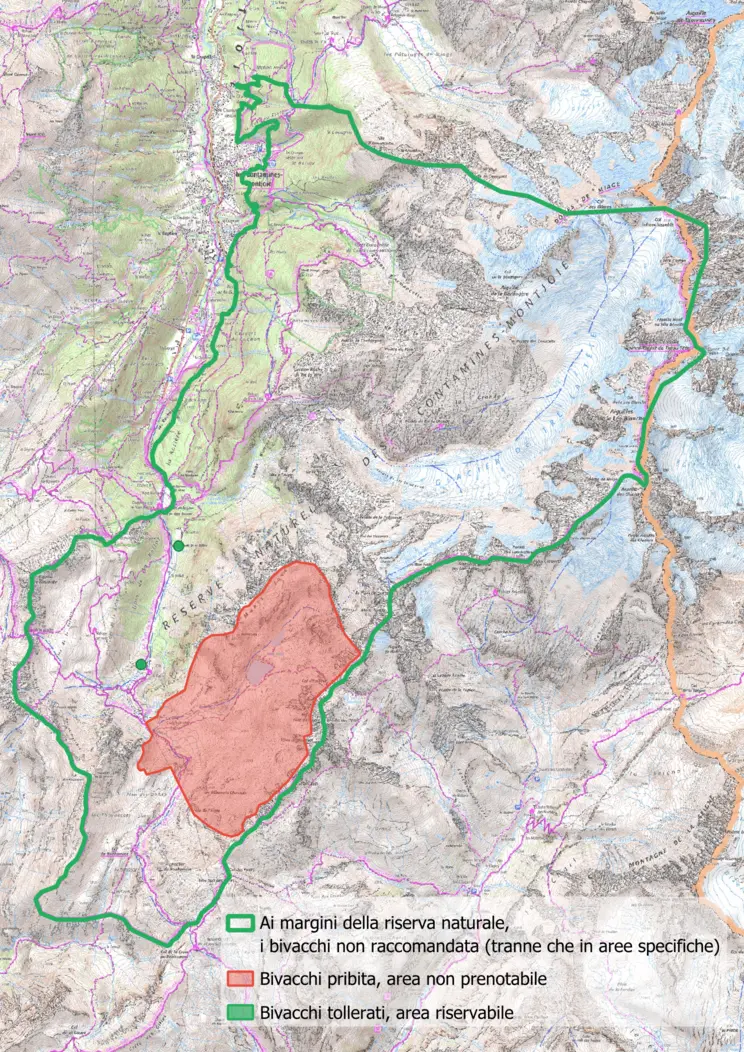
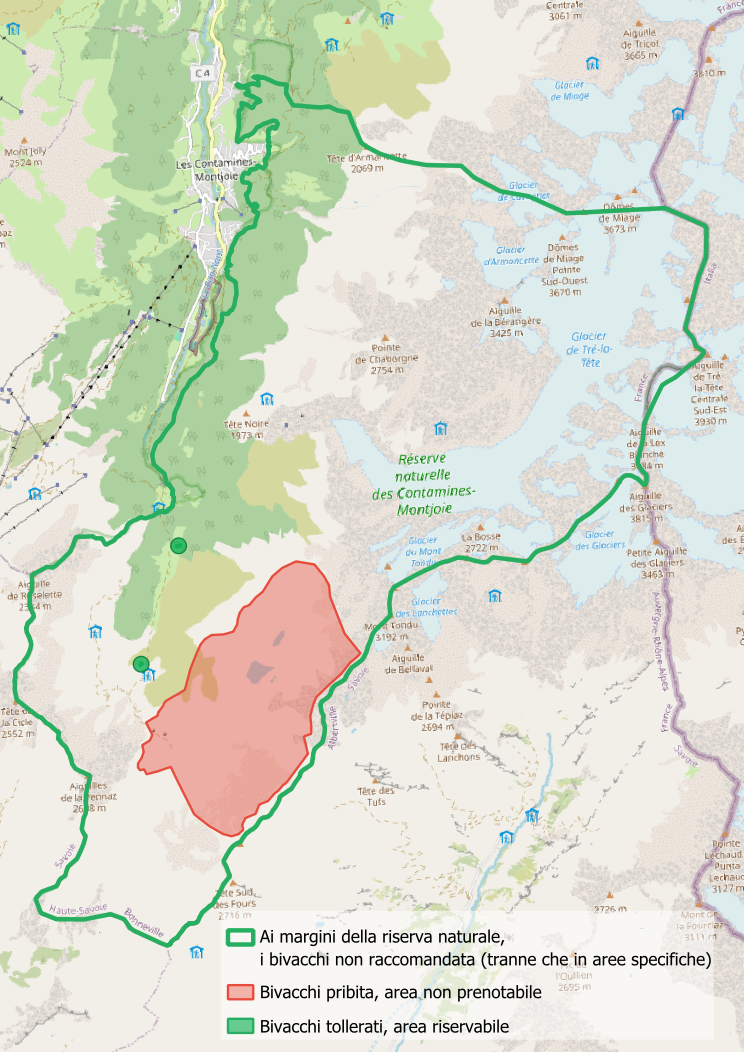
Not to be done to commit on main branch, but debug was necessary to correct a bug on reservation : POST request was too heavy -> delete screenshot url from POST request body
- Add Juliette's Translation
- Add Map on webformat
- Correct Quizz error, where users can skip last question

diff --git a/front/src/stores/Quizz.js b/front/src/stores/Quizz.js
@@ -66,7 +66,7 @@ export const quizz = createSlice({
                             "name": "eau",
                             "title": "A proximité d'un lac ou d'un cours d'eau, je peux...",
                             "choices": [
-                                "pêcher à la dynamite.",
+                                "me laver, l’eau est gratuite ici, il faut en profiter.",
                                 "nettoyer les Tupperware que je ne rendrai jamais à ma mère.",
                                 "le contempler et ne pas me baigner."
                             ],
@@ -115,16 +115,17 @@ export const quizz = createSlice({
                         {
                             "type": "radiogroup",
                             "name": "photos",
-                            "title": "Je peux prendre de belles photos pour les…",
+                            "title": "Je peux prendre de belles photos pour…",
                             "choices": [
-                                "Poster en story, live, photo, mon unique tente face aux montagnes.",
-                                "Publier sur Instagram et lancer ma carrière d’influenceur.se internationale.",
-                                "Partager sur tous les réseaux sociaux pour être sûr d’être encore plus nombreux la prochaine fois.",
-                                "Profiter du moment présent, gardez un souvenir, sans localiser mes photos."
+
+                                "garder un souvenir pour moi et mes proches",
+                                "publier sur Instagram et lancer ma carrière d’influenceur.se internationale.",
+                                "partager sur tous les réseaux sociaux pour être encore plus nombreux la prochaine fois."
+
                             ],
                             "isRequired": true,
-                            "correctAnswer": "Profiter du moment présent, gardez un souvenir, sans localiser mes photos.",
-                            "infos": "La protection des espaces naturels se fait aussi de manière digitale. Vos belles images véhiculent et donnent envie ! Modérez vos partages et gardez précieusement vos souvenirs pour limiter la fréquentation. Un afflux constant et à toutes heures des visiteurs dégrade les milieux et perturbent la faune sauvage."
+                            "correctAnswer": "garder un souvenir pour moi et mes proches",
+                            "infos": "La protection des espaces naturels se fait aussi de manière digitale. Vos belles images circulent et donnent envie ! Modérez vos partages et gardez précieusement vos souvenirs pour limiter la fréquentation. Un afflux constant et à toutes heures des visiteurs dégrade les milieux et perturbent la faune sauvage."
                         }
                     ]
                 },
@@ -212,9 +213,9 @@ export const quizz = createSlice({
                             "name": "eau",
                             "title": "Near a lake or a stream, I can…",
                             "choices": [
-                                "fish with dynamite.",
+                                "clean the Tupperware I’ll never return to my mom.",
                                 "look at it without taking a dip.",
-                                "fish with dynamite."
+                                "Bathe, the water is free here, let’s take advantage of it!"
                             ],
                             "isRequired": true,
                             "correctAnswer": "look at it without taking a dip.",
@@ -261,16 +262,16 @@ export const quizz = createSlice({
                         {
                             "type": "radiogroup",
                             "name": "photos",
-                            "title": "Je peux prendre de belles photos pour les…",
+                            "title": "I can take beautiful pictures…",
                             "choices": [
-                                "Poster en story, live, photo, mon unique tente face aux montagnes.",
-                                "Publier sur Instagram et lancer ma carrière d’influenceur.se internationale.",
-                                "Partager sur tous les réseaux sociaux pour être sûr d’être encore plus nombreux la prochaine fois.",
-                                "Profiter du moment présent, gardez un souvenir, sans localiser mes photos."
+                                "to keep a souvenir for myself and my loved ones.",
+                                "to publish on Instagram and launch my career as an international influencer.",
+                                "to share on all social networks to be sure to be even more numerous next time."
+
                             ],
                             "isRequired": true,
-                            "correctAnswer": "Profiter du moment présent, gardez un souvenir, sans localiser mes photos.",
-                            "infos": "La protection des espaces naturels se fait aussi de manière digitale. Vos belles images véhiculent et donnent envie ! Modérez vos partages et gardez précieusement vos souvenirs pour limiter la fréquentation. Un afflux constant et à toutes heures des visiteurs dégrade les milieux et perturbent la faune sauvage."
+                            "correctAnswer": "to keep a souvenir for myself and my loved ones.",
+                            "infos": "Protecting natural spaces is also done digitally. Your beautiful images circulate and inspire others! Moderate your sharing and treasure your memories to limit visitor numbers. A constant influx of visitors at all hours degrades the environment and disturbs wildlife."
                         }
                     ]
                 },
@@ -407,16 +408,16 @@ export const quizz = createSlice({
                         {
                             "type": "radiogroup",
                             "name": "photos",
-                            "title": "Je peux prendre de belles photos pour les…",
+                            "title": "Posso scattare foto meravigliose...",
                             "choices": [
-                                "Poster en story, live, photo, mon unique tente face aux montagnes.",
-                                "Publier sur Instagram et lancer ma carrière d’influenceur.se internationale.",
-                                "Partager sur tous les réseaux sociaux pour être sûr d’être encore plus nombreux la prochaine fois.",
-                                "Profiter du moment présent, gardez un souvenir, sans localiser mes photos."
+                                "della vostra tenda singola che si affaccia sulle montagne e pubblicarla su tutti i social",
+                                "da condividere su tutti i social per essere sicuri di essere ancora più numerosi la prossima volta.",
+                                "per godermi il momento, conservare un ricordo senza localizzare le mie foto."
+
                             ],
                             "isRequired": true,
-                            "correctAnswer": "Profiter du moment présent, gardez un souvenir, sans localiser mes photos.",
-                            "infos": "La protection des espaces naturels se fait aussi de manière digitale. Vos belles images véhiculent et donnent envie ! Modérez vos partages et gardez précieusement vos souvenirs pour limiter la fréquentation. Un afflux constant et à toutes heures des visiteurs dégrade les milieux et perturbent la faune sauvage."
+                            "correctAnswer": "per godermi il momento, conservare un ricordo senza localizzare le mie foto.",
+                            "infos": "La protezione degli spazi naturali può essere realizzata anche in digitale. Le vostre belle immagini circolano e fanno venire voglia di vederle! Moderate la condivisione e fate tesoro dei vostri ricordi per limitare il numero di visitatori. Un afflusso costante di visitatori a tutte le ore danneggia l'ambiente e disturba la fauna selvatica."
                         }
                     ]
                 },

diff --git a/front/src/stores/Home.js b/front/src/stores/Home.js
@@ -11,20 +11,31 @@ export const Home = createSlice({
     initialState: {
         fr: `
         <p><strong>Envie de dormir à la belle étoile?</strong> </p>
-        <p>Depuis 2023, vous devez réserver votre nuit, pour dormir en réserves naturelles:</p>
+        <p>Depuis 2023, vous devez réserver votre nuit pour bivouaquer en réserves naturelles:</p>
         <li>du Massif des Aiguilles Rouges</li>
         <li>des Contamines-Montjoie</li>
         <li>Sixt-Fer-à-Cheval/Passy</li>
         <p>La réserve naturelle de Passy n’est pas soumise à cette réglementation.</p>
-        <p>Avant de remplir votre réservation, ces cartes résument les zones interdites au bivouac et les zones tolérées. Cette réservation est gratuite! Préservez-vous ensemble la nature!</p>
+        <p>Avant de remplir votre réservation, ces cartes résument les zones interdites au bivouac et les zones tolérées. Cette réservation est gratuite !
+        </p> Préservons ensemble la nature !</p>
         <div class="column">
-        <img src="${carteContaFr}" alt="Conta" style="width:75%">
+        <p><strong>Réserve Naturelle Nationale des Contamines-Montjoie</strong> </p>
+        <a href="${carteContaFr}"><img src="${carteContaFr}" alt="Conta" style="width:90%"/></a>
         </div>
         <div class="column">
-        <img src="${carteMarFr}" alt="Mar" style="width:75%">
+        <p><strong>Réserves Naturelles Nationales du Massif des Aiguilles rouges</strong> </p>
+        <a href="${carteMarFr}"><img src="${carteMarFr}" alt="Mar" style="width:90%"></a>
+        </div>
+        <div class="column2">
+        <p style="text-align:center"><strong>Réserve Naturelle Nationale des Contamines-Montjoie</strong> </p>
+        <a href="${carteContaFr}"><img src="${carteContaFr}" alt="Conta" style="width:90%"/></a>
+        </div>
+        <div class="column2">
+        <p style="text-align:center"><strong>Réserves Naturelles Nationales du Massif des Aiguilles rouges</strong> </p>
+        <a href="${carteMarFr}"><img src="${carteMarFr}" alt="Mar" style="width:90%"></a>
         </div>
         <p><strong>Camping ou Bivouac?</strong></p>
-        <p>Le camping sauvage (plusieurs nuit) est interdit en réserves naturelles, le bivouac est réglementé sur certaines zones ou aires ; pour une seule nuit, sur un même emplacement, avec ou sans abri, entre 19h et 9h.</p>
+        <p>Le camping sauvage (plusieurs nuits) est interdit en réserves naturelles, le bivouac est réglementé sur certaines zones ou aires ; pour une seule nuit, sur un même emplacement, avec ou sans abri, entre 19h et 9h.</p>
         `,
         en: `
         <p><strong>Want to sleep under the stars?</strong> </p>
@@ -35,10 +46,20 @@ export const Home = createSlice({
         <p>The Passy nature reserve is not subject to these regulations.</p>
         <p>Before completing your booking, this map summarises the areas where bivouacs are prohibited and those where they are permitted. This booking is free! Protect nature together!</p>
         <div class="column">
-        <img src="${carteContaEn}" alt="Conta" style="width:75%">
+        <p><strong>National Nature Reserve of Contamines-Montjoie</strong></p>
+        <a href="${carteContaEn}"><img src="${carteContaEn}" alt="Conta" style="width:90%"/></a>
         </div>
         <div class="column">
-        <img src="${carteMarEn}" alt="Mar" style="width:75%">
+        <p><strong>Aiguilles Rouges' National Nature Reserves</strong> </p>
+        <a href="${carteMarEn}"><img src="${carteMarEn}" alt="Mar" style="width:90%"></a>
+        </div>
+        <div class="column2">
+        <p style="text-align:center"><strong>National Nature Reserve of Contamines-Montjoie</strong> </p>
+        <a href="${carteContaFr}"><img src="${carteContaFr}" alt="Conta" style="width:90%"/></a>
+        </div>
+        <div class="column2">
+        <p style="text-align:center"><strong>Aiguilles Rouges' National Nature Reserves</strong> </p>
+        <a href="${carteMarFr}"><img src="${carteMarFr}" alt="Mar" style="width:90%"></a>
         </div>
         <p><strong>Camping or Bivouac?</strong> </p>
         <p>Wild camping (several nights) is forbidden in nature reserves. Bivouacking is regulated in certain zones or areas; for a single night, on the same pitch, with or without shelter, between 7pm and 9am.</p>
@@ -52,10 +73,20 @@ export const Home = createSlice({
         <p>La riserva naturale di Passy non è soggetta a queste norme.</p>
         <p>Prima di completare la prenotazione, questa mappa riassume le aree in cui i bivacchi sono vietati e quelle in cui sono consentiti. La prenotazione è gratuita! Proteggiamo la natura insieme!</p>
         <div class="column">
-        <img src="${carteContaIt}" alt="Conta" style="width:75%">
+        <p><strong>Riserve naturali nazionali di Contamines-Montjoie</strong> </p>
+        <a href="${carteContaIt}"><img src="${carteContaIt}" alt="Conta" style="width:90%"/></a>
         </div>
         <div class="column">
-        <img src="${carteMarIt}" alt="Mar" style="width:75%">
+        <p><strong>Riserva Naturale Nazionale delle Aiguilles rouges</strong> </p>
+        <a href="${carteMarIt}"><img src="${carteMarIt}" alt="Mar" style="width:90%"></a>
+        </div>
+        <div class="column2">
+        <p style="text-align:center"><strong>Riserve naturali nazionali di Contamines-Montjoie</strong> </p>
+        <a href="${carteContaFr}"><img src="${carteContaFr}" alt="Conta" style="width:90%"/></a>
+        </div>
+        <div class="column2">
+        <p style="text-align:center"><strong>Riserva Naturale Nazionale delle Aiguilles rouges</strong> </p>
+        <a href="${carteMarFr}"><img src="${carteMarFr}" alt="Mar" style="width:90%"></a>
         </div>
         <p><strong>Campeggio o bivacco? </strong> </p>
         <p>Il campeggio selvaggio (più notti) è vietato nelle riserve naturali. Il bivacco è regolamentato in alcune zone o aree; per una sola notte, sulla stessa piazzola, con o senza riparo, tra le 19 e le 9 del mattino.</p>

diff --git a/front/src/stores/BeforeLeaving.js b/front/src/stores/BeforeLeaving.js
@@ -4,9 +4,6 @@ export const BeforeLeaving = createSlice({
     name: "BeforeLeaving",
     initialState: {
         fr: `
-        <p><i> “ Que l'on me donne six heures pour couper un arbre, j'en passerai quatre à préparer ma hache.”</i></p>
-        <p>Abraham Lincoln : prenez le temps avant de partir</p>
-
         <p><strong>Conseils de bons randonneurs</strong></p>
         <p>
         <li>Repérez votre itinéraire et assurez-vous des conditions d’accès aux sentiers du secteur.</li>
@@ -15,21 +12,19 @@ export const BeforeLeaving = createSlice({
         <li>Informez un proche de votre parcours.</li>
         <li>Partez équipé de chaussures de randonnée et de vêtements chauds et imperméables.</li>
         <li>N’oubliez pas d’emporter de l’eau, de quoi vous restaurer et une protection solaire.</li>
-        <li>N’abandonnez pas de détritus (ou papier toilettes) et ne faites pas de feu.</li>
+        <li>N’abandonnez pas de détritus (ou papier toilette) et ne faites pas de feu.</li>
         <li>Afin de limiter le piétinement de la végétation et l’érosion des sols, ne créez pas de raccourcis.</li>
         </p>
-
+        <p>Infos randonnées en montagne et conditions des sentiers :<p>
         <a href="https://www.chamoniarde.com">Le site de la Chamoniarde</a>
 
-        <p>Soyez toujours prudent.e.s et prévoyant.e.s lors de la randonnée. Asters CEN-74 n'est pas tenu responsable en cas d'accident ou de désagrément quelconque survenu sur ce circuit.</p>
+        <p>Soyez toujours prudent et prévoyant lors de la randonnée. Asters CEN-74 n'est pas tenu responsable en cas d'accident ou de désagrément quelconque.</p>
 
         <p>Se renseigner sur les conditions météorologiques avant de partir randonner.</p>
 
         <p>Coordonnées des Secours Montagne : 112</p>
         `,
         en: `
-        <p><i> “ Que l'on me donne six heures pour couper un arbre, j'en passerai quatre à préparer ma hache.”</i></p>
-        <p>Abraham Lincoln : prenez le temps avant de partir</p>
 
         <p><strong>Conseils de bons randonneurs</strong></p>
         <p>
@@ -52,8 +47,6 @@ export const BeforeLeaving = createSlice({
         <p>Coordonnées des Secours Montagne : 112</p>
         `,
         it: `
-        <p><i> “ Que l'on me donne six heures pour couper un arbre, j'en passerai quatre à préparer ma hache.”</i></p>
-        <p>Abraham Lincoln : prenez le temps avant de partir</p>
 
         <p><strong>Conseils de bons randonneurs</strong></p>
         <p>

diff --git a/front/src/stores/Faq.js b/front/src/stores/Faq.js
@@ -23,13 +23,13 @@ export const Faq = createSlice({
         <p>De manière générale, le bivouac doit être le moins impactant possible sur le milieu dans lequel il se trouve. On parle souvent de planter sa tente au coucher du soleil, et la démonter au lever du soleil. En Haute-Savoie, cela se traduit par les horaires de 19h à 9h le lendemain.</p>
 
         <p><strong>Que se passe-t-il si j’installe ma tente en dehors de ces zones tolérées ou en dehors des horaires?</strong></p>
-        <p>En cas de contrôle par des agents du Parc national de la Vanoise, vous risquez une amende de 68 €. Circulation et stationnement des personnes catégorie 3.</p>
+        <p>En cas de contrôle par les gardes des réserves naturelles, vous risquez une amende de 68 €.
 
         <p><strong>Y a-t-il des toilettes à proximité?</strong></p>
-        <p>Dans la réserve naturelle des contamines-Montjoie, des toilettes publiques sont accessibles. Merci de remporter vos déchets pas de poubelles sur place.</p>
+        <p>Dans la réserve naturelle des Contamines-Montjoie, des toilettes publiques sont accessibles. Merci de remporter vos déchets pas de poubelles sur place.</p>
 
-        <p><strong>Est-ce que je dois apporter ma tente?</strong></p>
-        <p>Oui nous parlons ici de bivouac sans services associés comme dans un camping. N’oublier sac de couchage adapté, les nuits étant plus fraîches en altitude : tapis de sol, habits chauds, un petit bonnet et une frontale!</p>
+        <p><strong>Quel matériel apporter lors de mon bivouac?</strong></p>
+        <p>Vous êtes en réserves naturelles, la réservation n'entraîne aucun services associés. Les nuits étant plus fraîches en altitude, n’oubliez pas le sac de couchage adapté, tapis de sol, habits chauds,une frontale...</p>
 
         <p><strong>Est-ce que je peux utiliser mon réchaud sur l’aire de bivouac pour préparer mon repas?</strong></p>
         <p>Oui, le feu est interdit mais les réchauds portatifs sont autorisés.</p>

diff --git a/front/src/stores/Infos.js b/front/src/stores/Infos.js
@@ -163,7 +163,7 @@ export const infos = createSlice({
                 {
                     "name": "tmb",
                     "type": "boolean",
-                    "title": "Faites-vous (une partie ou) le tour du Mont-Blanc ?",
+                    "title": "Faites-vous (une partie ou) le tour du Mont-Blanc?",
                     "maxLength": 25,
                     "isRequired": true,
                     "valueTrue": "Yes",
@@ -328,7 +328,7 @@ export const infos = createSlice({
                 {
                     "name": "tmb",
                     "type": "boolean",
-                    "title": "Faites-vous (une partie ou) le tour du Mont-Blanc ?",
+                    "title": "Are you (part of or) touring Mont Blanc?",
                     "maxLength": 25,
                     "isRequired": true,
                     "valueTrue": "Yes",
@@ -493,7 +493,7 @@ export const infos = createSlice({
                 {
                     "name": "tmb",
                     "type": "boolean",
-                    "title": "Faites-vous (une partie ou) le tour du Mont-Blanc ?",
+                    "title": "State facendo (parte o) un tour del Monte Bianco? ?",
                     "maxLength": 25,
                     "isRequired": true,
                     "valueTrue": "Yes",

diff --git a/front/src/components/Thanks.jsx b/front/src/components/Thanks.jsx
@@ -42,10 +42,12 @@ export default function Thanks() {
         async function submitSurvey(data) {
             const dataInfos = data.infos;
             const dataLocalisation = data.localisation;
+            const dataLocalisationCopy = { ...dataLocalisation };
+            delete dataLocalisationCopy.capturedImages;
             const dataQuizz = data.quizz;
             const dataQuizzLastQuestion = dataQuizz[t("Last question quiz")];
             const bodyInfos = JSON.stringify(dataInfos);
-            const bodyLocalisation = JSON.stringify(dataLocalisation);
+            const bodyLocalisation = JSON.stringify(dataLocalisationCopy);
             const bodyQuizz = JSON.stringify({"quizz_note": dataQuizzLastQuestion});
             let body = JSON.stringify({ ...JSON.parse(bodyInfos), ...JSON.parse(bodyLocalisation), ...JSON.parse(bodyQuizz)});
             const headers = new Headers();

diff --git a/front/src/components/Quizz.jsx b/front/src/components/Quizz.jsx
@@ -15,7 +15,7 @@ export default function Quizz() {
     const navigate = useNavigate();
     const { t } = useTranslation();
     const dispatch = useDispatch();
-    const numberAnswersExpected = 6;
+    const numberAnswersExpected = 7;
     const [displayAlert, setDisplayAlert] = useState(
         false
     );

diff --git a/front/src/styles/Home.css b/front/src/styles/Home.css
@@ -1,5 +1,15 @@
+@media only screen and (max-width: 600px) {
+  .column {
+    display: none;
+  }
+}
+@media only screen and (min-width: 600px) {
 .column {
     float: left;
     width: 50%;
     padding: 5px;
   }
+  .column2 {
+    display: none;
+  }
+}

diff --git a/api/bivouacapi/utils.py b/api/bivouacapi/utils.py
@@ -245,10 +245,10 @@ async def generate_pdf(attributes):
         pdf.set_text_color(255, 0, 0)
         alert_text = ""
         if commune == "Chamonix":
-            alert_text = """Le bivouac est réglementé du 1er juillet au 31 Août par arrêté préfectoral."""
+            alert_text = """Le bivouac est réglementé du 1er juin au 31 août par arrêté préfectoral."""
         if commune == "Les Contamines-Montjoie":
             alert_text = """**Zone interdite Plan Jovet et Lacs Jovet pour les Contamines-Montjoie**
-Afin de préserver les milieux naturels, le **bivouac** est interdit sur cette zone du 1er juillet au 31 Août.
+Afin de préserver les milieux naturels, le **bivouac** est interdit sur cette zone du 1er juillet au 31 août.
 La **baignade** et la navigation est interdite aux randonneurs et aux animaux de compagnie tout au long de l'année.
             """
         pdf.multi_cell(
@@ -409,7 +409,7 @@ La **baignade** et la navigation est interdite aux randonneurs et aux animaux de
         pdf.set_text_color(255, 0, 0)
         alert_text = ""
         if commune == "Chamonix":
-            alert_text = """Bivouac is regulated from July 1 to August 31 by prefectoral decree."""
+            alert_text = """Bivouac is regulated from June 1 to August 31 by prefectoral decree."""
         if commune == "Les Contamines-Montjoie":
             alert_text = """**Prohibited zone Plan Jovet and Lacs Jovet for Contamines-Montjoie**
 In order to preserve natural environments, **bivouac** is prohibited in this area from July 1 to August 31.
